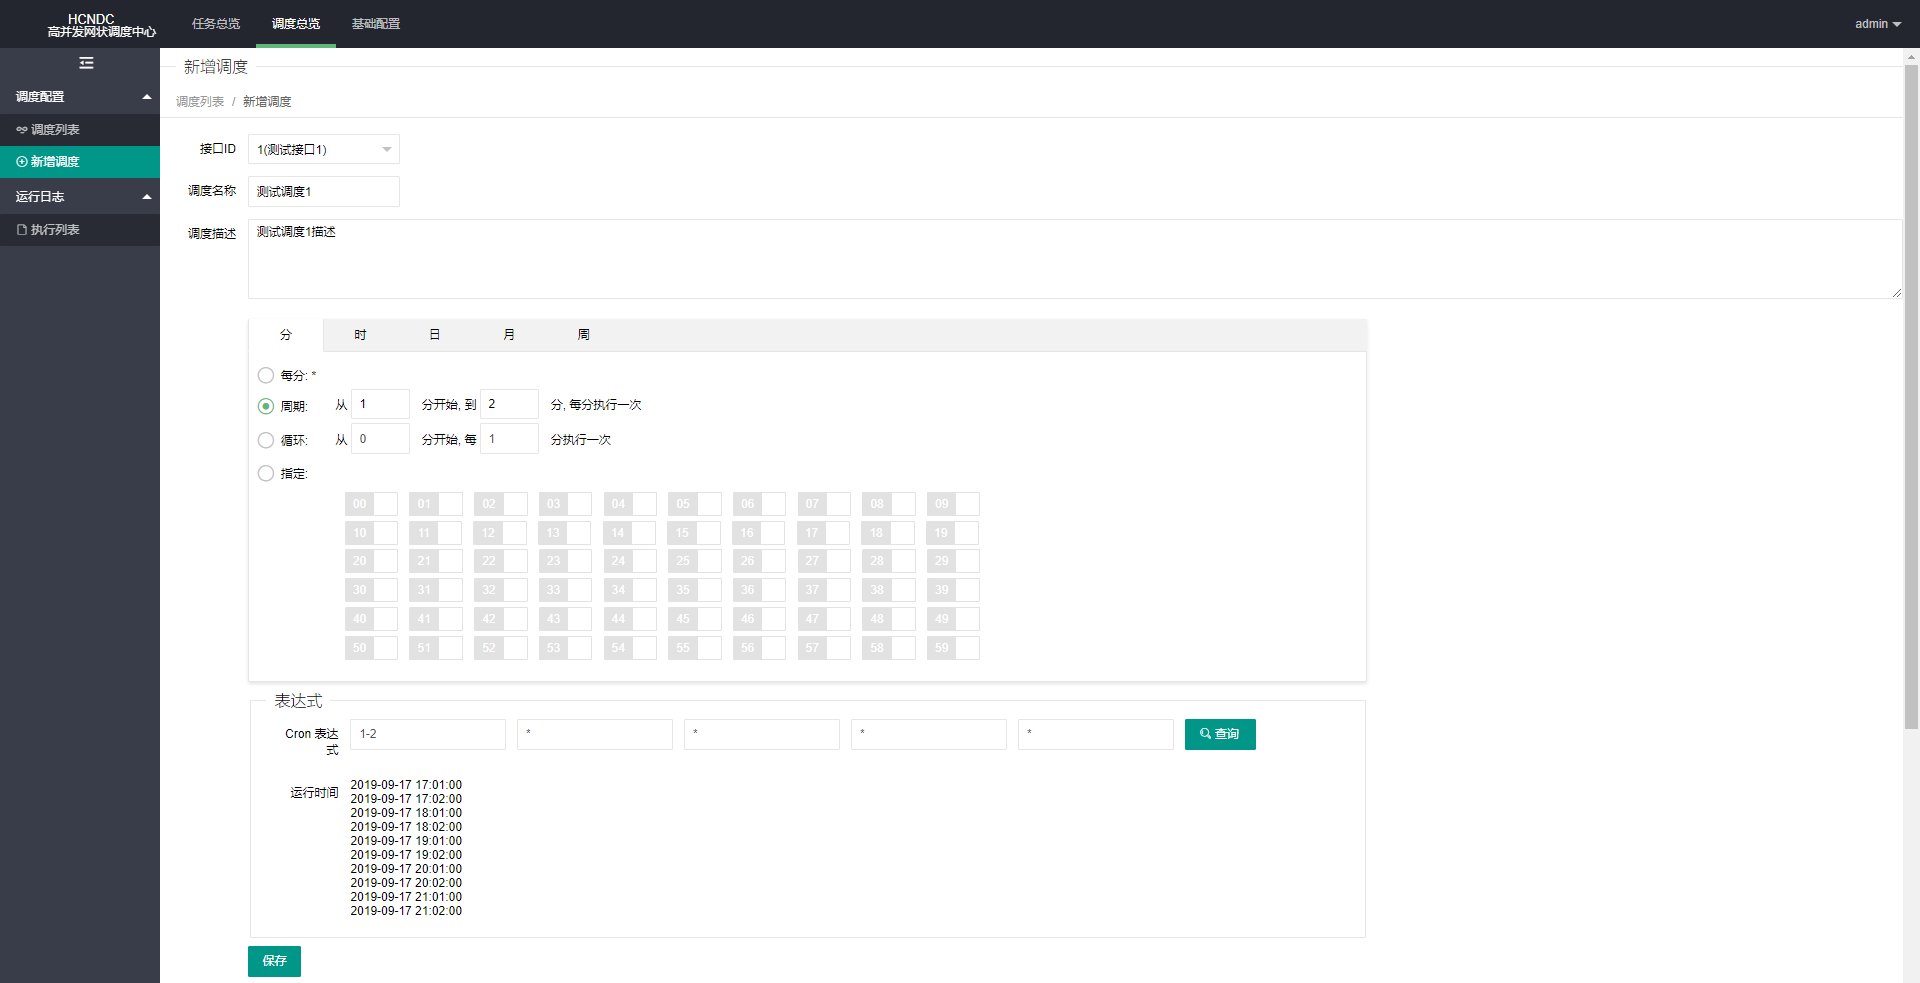
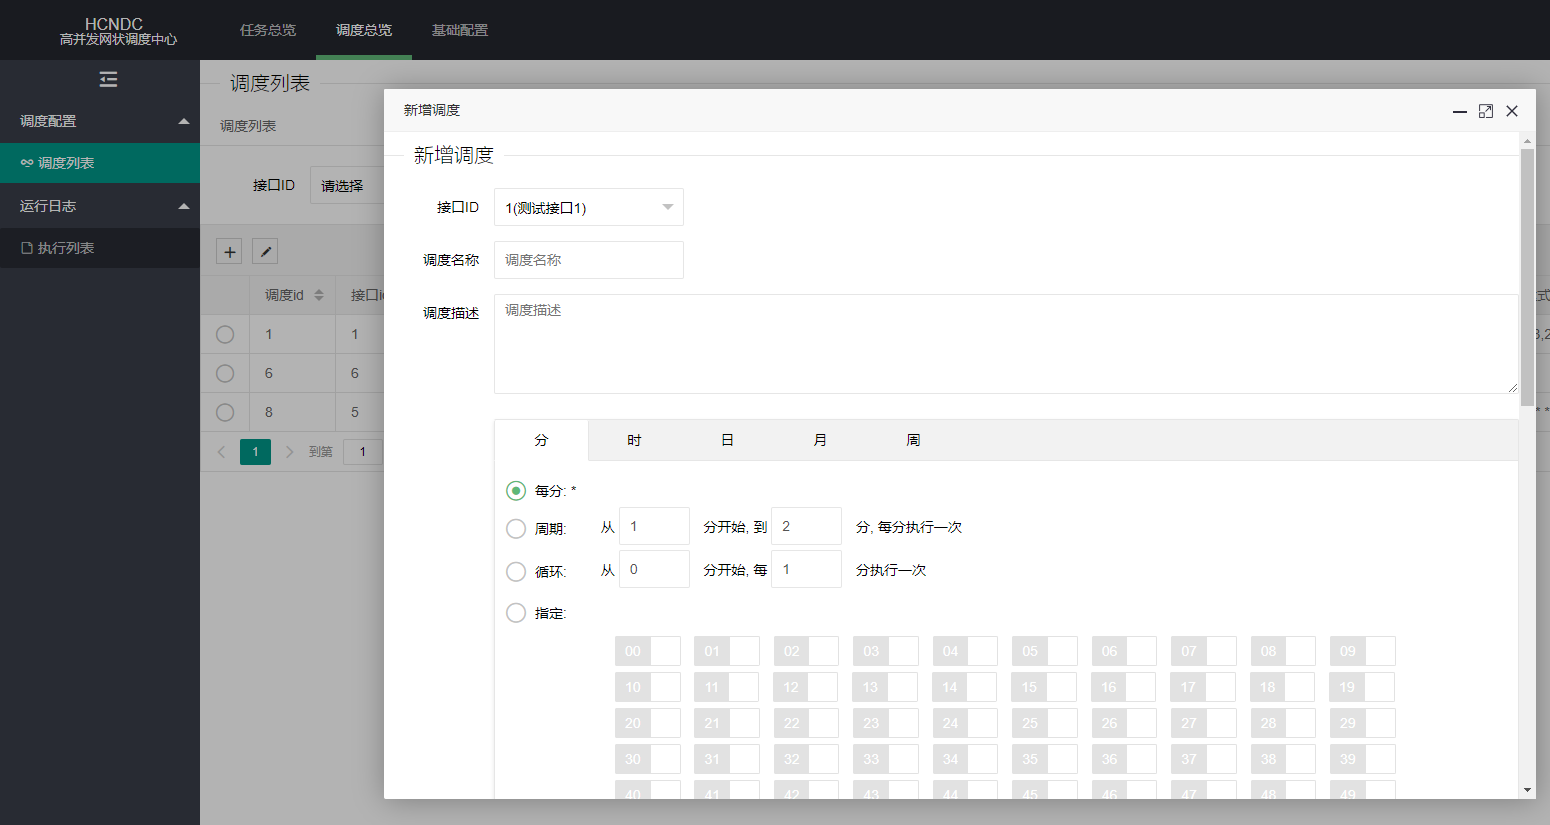
[修改]操作文档更新

diff --git a/操作文档.md b/操作文档.md
@@ -53,8 +53,8 @@ root     32090 32086  0 Sep26 ?        00:07:53 /usr/bin/python3 /root/hcdnc/hcn
 ## 2.项目配置
 * 在执行服务器上部署并启动`hcndc-exec`服务, 默认端口`7890`, 请确保该端口未被占用
 * 如需更改端口,  请确保hcndc-web服务和hcndc-exec服务superconf.json文件配置中exec.port端口一致, 并**重启所有机器上的hcndc-web和hcndc-exec服务**
-## 3.web配置
-`基础配置-新增执行服务器`
+## 3.web页面配置
+`基础配置-执行服务器列表`
 
 ![](/x_other/新增执行服务器.png)
 
@@ -67,7 +67,7 @@ root     32090 32086  0 Sep26 ?        00:07:53 /usr/bin/python3 /root/hcdnc/hcn
 
 ![](/x_other/任务依赖.png)
 ## 2.web配置
-`任务总览-新增接口`
+`任务总览-接口列表`
 
 ![](/x_other/新增接口.png)
 
@@ -81,7 +81,7 @@ root     32090 32086  0 Sep26 ?        00:07:53 /usr/bin/python3 /root/hcdnc/hcn
 * 依赖任务为执行该任务前的前置任务, 可以多选
 * 任务列表可以手动单独触发, 不用考虑前置任务是否完成
 ## 2.web配置
-`任务总览-新增任务`
+`任务总览-任务列表`
 ![](/x_other/新增任务.png)
 
 ## 3.批量导入
@@ -100,22 +100,42 @@ root     32090 32086  0 Sep26 ?        00:07:53 /usr/bin/python3 /root/hcdnc/hcn
 * 脚本命令:                                  用户自定义.(非空, 参数必须为字符串类型)
 * 依赖任务序号(本次新建任务): 在本次新建任务中, 该任务所依赖的任务序号.(参数必须为整型, 多个依赖任务时按逗号分隔, 该序号必须存在)
 * 依赖任务id(已有任务):             在已有的任务中, 该任务所依赖的任务id.(参数必须为整型, 多个依赖任务时按逗号分隔, 该id必须存在)
+* 任务参数:                                  在已有的任务参数中, 该任务所选的任务任务参数.(参数必须为整型, 多个依赖任务时按逗号分隔, 该id必须存在)
 ### 前端入口
 ![](/x_other/批量导入入口.png)
 
+# 五、数据源配置
+## 1.说明描述
+数据源配置作为任务参数配置的前置功能, 任务参数分为`静态参数`和`SQL参数`, 其中`SQL参数`使用sql查询数据库中的字段, 数据库配置在`数据源配置`功能中完成. 本系统提供4中数据库.
+* mysql
+* msql
+* hive
+* impala
 
-# 五、配置调度
+## 2.web配置
+`任务总览-数据源配置`
+![](/x_other/数据源配置.png)
+
+# 六、参数配置
+## 1.说明描述
+参数配置用来配置全局变量, 为任务配置中`任务参数`字段使用, 参数配置分为两种, 静态参数和SQL参数.
+
+## 2.web配置
+`任务总览-参数配置`
+![](/x_other/参数配置.png)
+
+# 七、配置调度
 ## 1.说明描述
 * 调度系统是基于接口进行定时任务触发的
 * 目前只支持cron表达式触发
 * 调度列表可以进行立即执行、恢复、暂停调度等功能
 * 一个接口只能配置一个调度任务, 不能重复配置
 ## 2.web配置
-`调度总览-新增调度`
+`调度总览-调度列表`
 
 ![](/x_other/新增调度.png)
 
-# 六、运行日志
+# 八、运行日志
 `调度总览-执行列表`
 * 可以查看每一次执行任务日志, 包括手动执行和调度执行
 * 执行详情中有网络拓扑、任务列表、运行日志等功能
